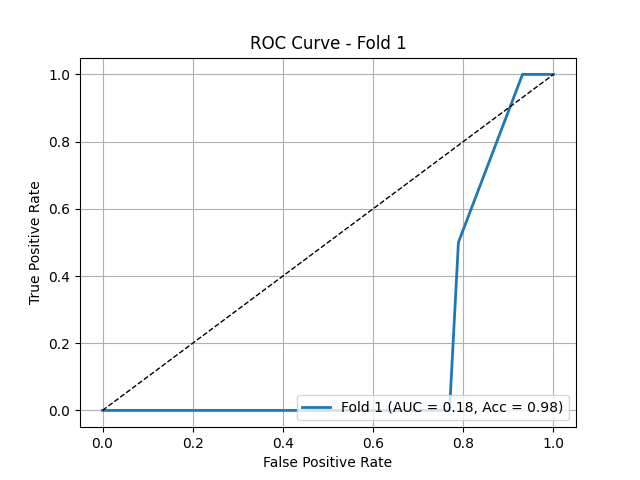
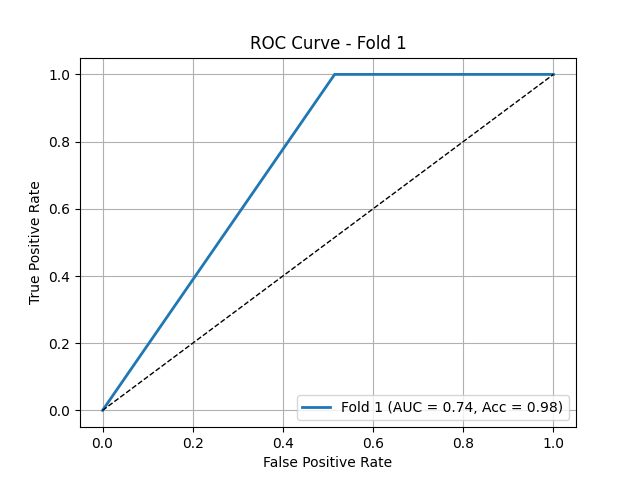
patch size 64

diff --git a/train_so2_thb.py b/train_so2_thb.py
@@ -98,7 +98,7 @@ for fold in range(k_fold):
     # Model
     #model = MultiClassificationTorch_Imagenet(num_classes= 1, backbone_name= 'resnet18').to(device)
     #model = MultiModalCancerClassifierWithAttention(num_modalities=2, out_dim=1, fusion_dim=64, backbone_name='resnet18', dropout_prob=0.3).to(device)
-    model = MultiModalTransformerClassifier(num_classes=1, img_size = 448, patch_size= 32).to(device) #)
+    model = MultiModalTransformerClassifier(num_classes=1, img_size = 448, patch_size= 64).to(device) #)
     #optimizer = torch.optim.Adam(model.parameters(), lr=5e-5, weight_decay=1e-5)
     optimizer = torch.optim.AdamW(model.parameters(), lr=5e-4, weight_decay=1e-2)
     scheduler = ExponentialLR(optimizer=optimizer, gamma=0.9) #CosineAnnealingWarmRestarts(optimizer, T_0=10, T_mult=2, eta_min=1e-6)

diff --git a/dataset.py b/dataset.py
@@ -48,7 +48,7 @@ val_transform_THB = A.Compose([
 train_transform_SO2 = A.Compose([
     # Resize with ratio range
 	A.Resize(height=img_size, width=img_size, always_apply=True),
-	A.ElasticTransform(alpha = 10, sigma = 250, p=0.5),
+	A.ElasticTransform(alpha = 1, sigma = 250, p=0.5),
     A.GridDistortion(distort_limit=(-0.2,0.2), p=0.5),
 
     A.ShiftScaleRotate(shift_limit=(-0.005,0.005), scale_limit=(-0.2, 0.005), rotate_limit=(-30,30), border_mode=0, value=0, p=0.6),
